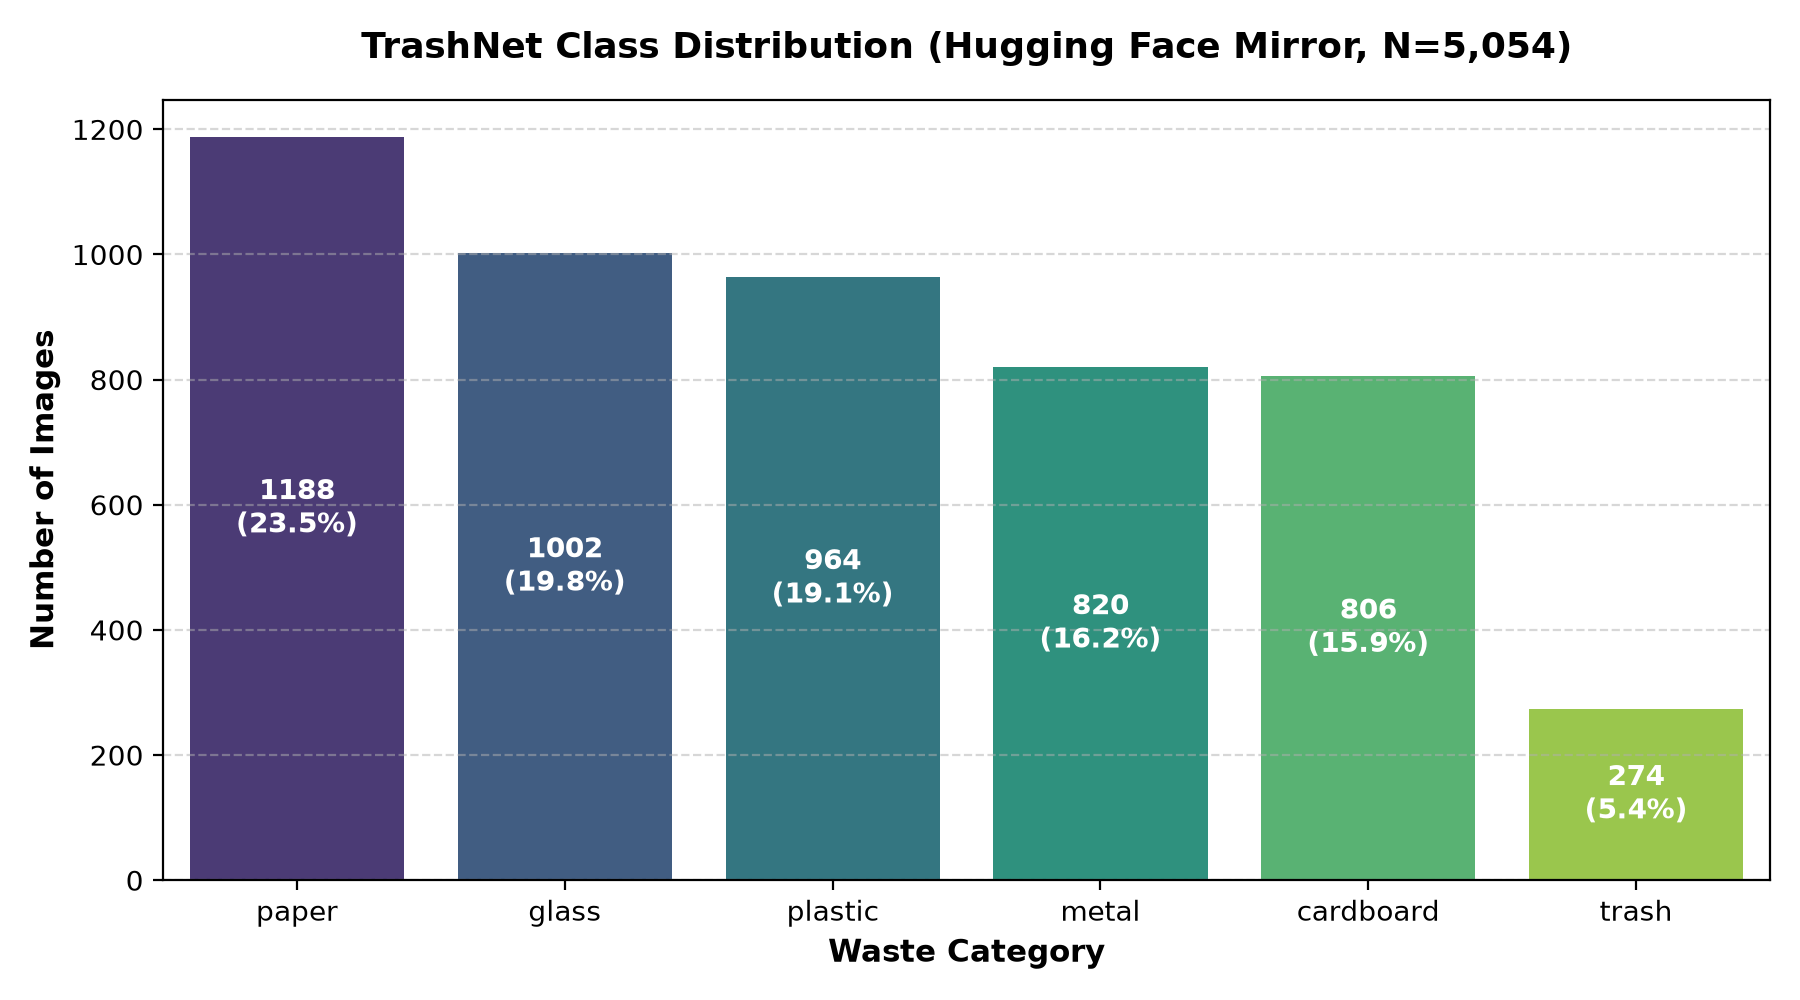
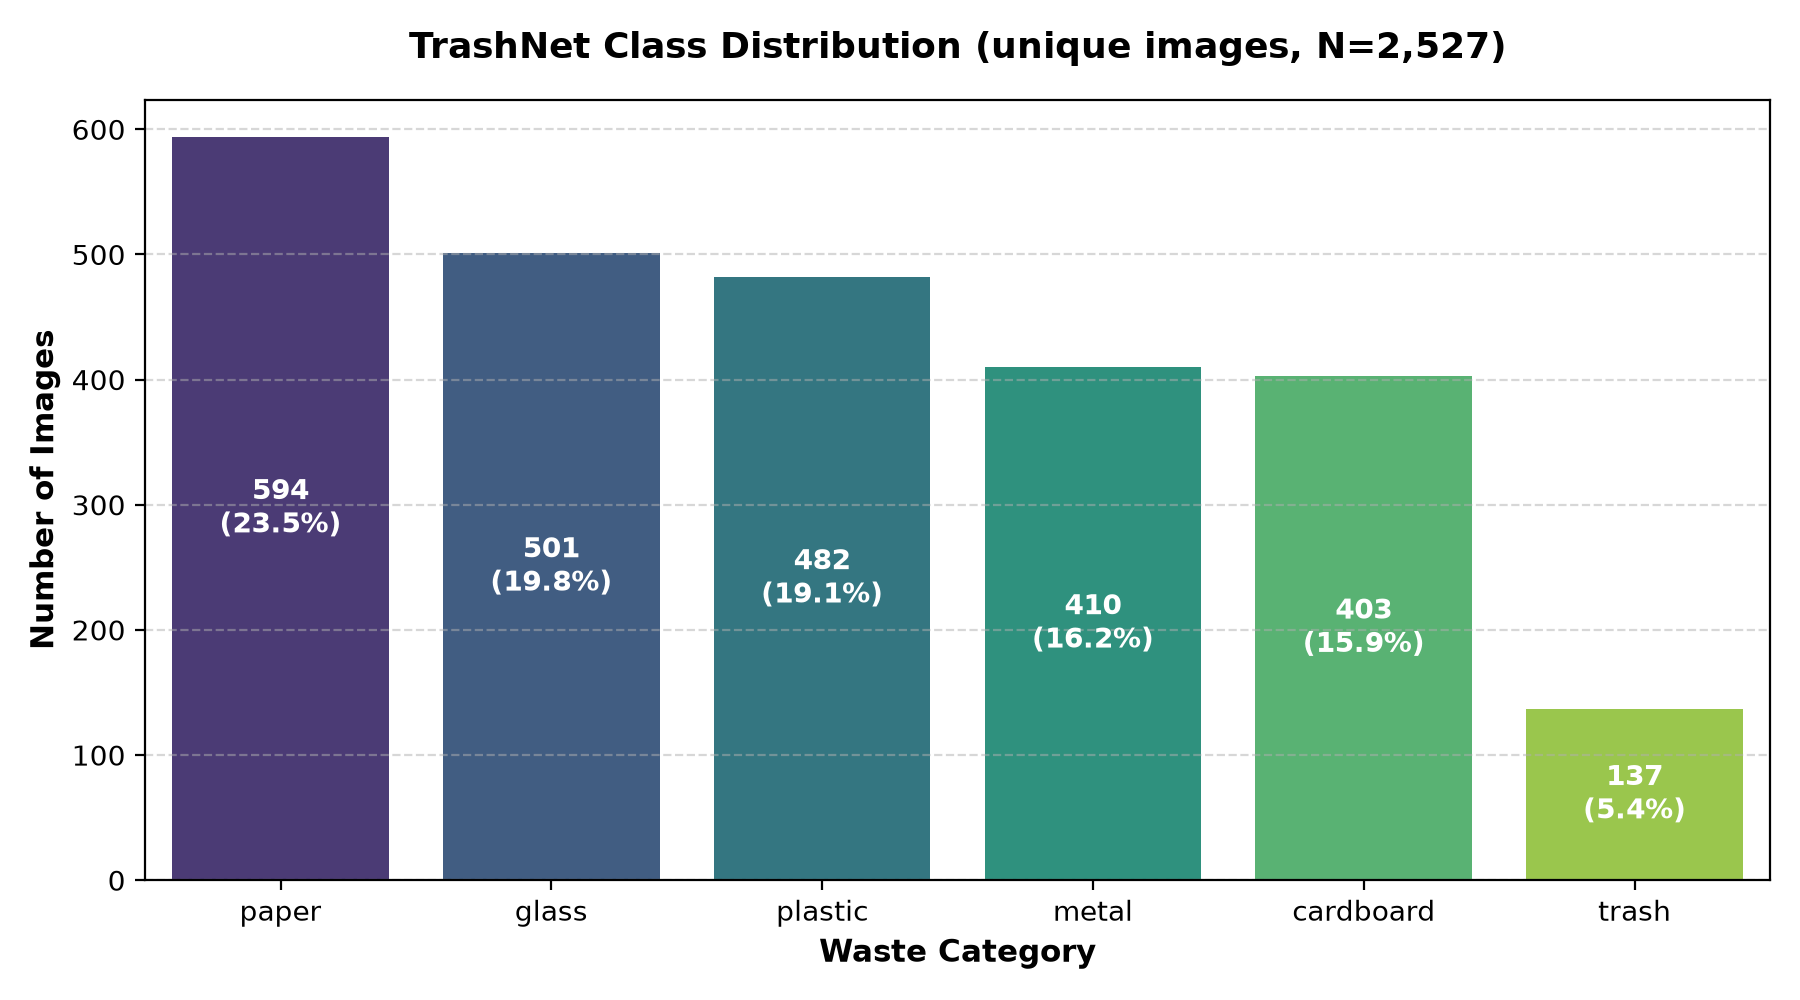
fix(phase-1): update imbalance chart for N=2527, relative image paths, 4.34:1 ratio, and removal policy in docs

diff --git a/docs/DATASET.md b/docs/DATASET.md
@@ -7,6 +7,7 @@ The dataset used in EcoVision is **TrashNet**, originally compiled by Gary Thung
 - **Primary Source (GitHub):** [garythung/trashnet](https://github.com/garythung/trashnet) at commit `6fa2b87`
 - **Hugging Face Mirror:** [garythung/trashnet](https://huggingface.co/datasets/garythung/trashnet)
 - **Problem Formulation:** Single-label multi-class image classification across 6 waste categories: `cardboard`, `glass`, `metal`, `paper`, `plastic`, and `trash`.
+- **Unique vs. Mirror Size:** The **true unique benchmark size is 2,527 images**. The **5,054 figure is the Hugging Face mirror's doubled count**, caused by automatic ingestion of both original and resized archives.
 
 ---
 
@@ -16,7 +17,7 @@ Official GitHub count states **2,527** unique images. The Hugging Face mirror re
 
 The table below presents the verified counts per class extracted directly by `src/data_audit.py` and saved to `reports/class_counts_comparison.csv`:
 
-| Class | GitHub Count (`6fa2b87`) | Hugging Face Mirror Rows | Ratio (HF / GitHub) | Share of Dataset (%) |
+| Class | GitHub Unique Count (`6fa2b87`) | Hugging Face Mirror Rows (Doubled) | Ratio (HF / GitHub) | Share of Dataset (%) |
 | :--- | :---: | :---: | :---: | :---: |
 | **paper** | 594 | 1,188 | 2.0000 | 23.51% |
 | **glass** | 501 | 1,002 | 2.0000 | 19.83% |
@@ -27,7 +28,7 @@ The table below presents the verified counts per class extracted directly by `sr
 | **TOTAL** | **2,527** | **5,054** | **2.0000** | **100.00%** |
 
 ### Severe Imbalance: The "Trash" Minority Class
-- The **`trash`** category is the extreme minority, comprising only **137 unique images (5.42%)**, whereas `paper` accounts for **594 images (23.51%)** — an imbalance ratio of **4.33 : 1**.
+- The **`trash`** category is the extreme minority, comprising only **137 unique images (5.42%)**, whereas `paper` accounts for **594 images (23.51%)** — an imbalance ratio of **4.34 : 1**.
 - **Implication for Modeling:** A naive classifier predicting solely the majority classes can achieve high overall accuracy while completely failing on actual miscellaneous waste. Therefore, training must incorporate **class-weighted cross-entropy loss** and model selection must prioritize **macro-averaged F1 score** over raw accuracy.
 
 ---
@@ -46,27 +47,30 @@ Rather than assuming duplicates, `src/data_audit.py` investigated the Hugging Fa
    - **Perceptual Hash Distance:** 2,242 pairs (88.7%) have a perceptual hash (pHash) Hamming distance of **0**, and 100% have a distance **≤ 4** (mean Hamming distance: 0.2287).
    - **Resolution Contrast:** Samples 0..2526 are high-resolution (3264×2448 to 4032×3024); samples 2527..5053 are downscaled (512×384).
 
-### Cross-Class Label Noise & Exact Duplicates
-Beyond the 2x resolution duplication, cryptographic MD5 hash analysis identified **3 pairs of exact duplicate images with conflicting labels** present in the original dataset:
+### Cross-Class Label Contamination & Removal Policy
+Beyond the 2x resolution duplication, cryptographic MD5 hash analysis identified **3 pairs of exact duplicate images with conflicting labels** present in the benchmark:
 1. `glass115.jpg` and `metal91.jpg` are byte-identical pixels (MD5: `319ffb5432...` at 4032×3024, `50035a9538...` at 512×384).
 2. `glass176.jpg` and `plastic152.jpg` are byte-identical pixels (MD5: `31b82dd56c...` at 4032×3024, `03b62f7033...` at 512×384).
 3. `glass389.jpg` and `plastic332.jpg` are byte-identical pixels (MD5: `92b8e0d530...` at 4032×3024, `814c3e8c70...` at 512×384).
 
-This proves that genuine label noise and duplicate contamination exist in the benchmark, which must be addressed in Phase 2 during deduplication and stratified group splitting.
+**Phase 2 Removal Policy:**
+Because the true ground-truth label for these images is ambiguous and unknowable without external verification, **BOTH images of each pair (6 images total)** are systematically removed from the modeling pipeline. They are logged in `reports/removed_images.csv` to ensure no contaminated labels corrupt training or artificially penalize validation/test evaluation.
 
 ---
 
 ## 4. Visualizations
 
-### Class Imbalance Distribution
-The bar chart below illustrates the sample counts and relative percentages for all 6 categories:
+### Class Imbalance Distribution (Unique Images, N=2,527)
+The bar chart below illustrates the sample counts and relative percentages for all 6 categories across the unique 2,527 images:
 
-![Class Imbalance Distribution](file:///c:/Users/mdkas/EcoVision/reports/class_imbalance.png)
+![Class Imbalance Distribution (Unique N=2,527)](../reports/class_imbalance.png)
+
+*(Note: The mirrored 5,054-row chart is archived at `../reports/class_imbalance_hf_mirror_doubled.png` for reference).*
 
 ### Representative Samples
-Below is a 2x6 sample grid showing representative waste objects from each of the 6 classes along with their original resolutions:
+Below is a 2x6 sample grid showing representative waste objects from each of the 6 classes along with their resolutions:
 
-![Representative Sample Grid](file:///c:/Users/mdkas/EcoVision/reports/sample_grid.png)
+![Representative Sample Grid](../reports/sample_grid.png)
 
 ---
 
@@ -76,5 +80,7 @@ All figures and findings are verifiable from the code-generated artifacts stored
 - `reports/dataset_metadata.csv`: Full metadata index (dimensions, aspect ratio, MD5, pHash, dHash, aHash, local paths) for all 5,054 rows.
 - `reports/class_counts_comparison.csv`: Exact GitHub vs. Hugging Face count and percentage breakdown.
 - `reports/discrepancy_summary.json`: Mathematical and empirical verification of the 2x archive duplication and resolution ranges.
-- `reports/class_imbalance.png`: High-resolution distribution chart.
+- `reports/class_imbalance.png`: High-resolution distribution chart of the unique 2,527 images.
+- `reports/class_imbalance_hf_mirror_doubled.png`: Doubled mirror distribution chart archive.
 - `reports/sample_grid.png`: High-resolution representative sample image grid.
+- `reports/removed_images.csv`: Log of removed cross-class duplicate images with conflicting labels.

diff --git a/docs/EXPLAINED.md b/docs/EXPLAINED.md
@@ -139,7 +139,7 @@ Provides the formal data specification for the EcoVision project, documenting th
 Fulfills Phase 1 documentation deliverables and equips recruitment reviewers with a complete, verifiable reference explaining why the dataset has 5,054 rows on Hugging Face versus 2,527 on GitHub, and how class imbalance and label noise will be handled in subsequent phases.
 
 ### Interview Questions & Answers
-1. **Q: Why is the 4.33:1 class imbalance between paper (23.51%) and trash (5.42%) problematic for evaluation?**
+1. **Q: Why is the 4.34:1 class imbalance between paper (23.51%) and trash (5.42%) problematic for evaluation?**
    - **A:** If evaluated using overall accuracy alone, an algorithm could predict the majority class and achieve ~75-80% accuracy while failing 100% of the time on miscellaneous trash. Macro-averaged metrics (macro-F1) weight all classes equally, exposing poor performance on minority classes.
 2. **Q: How does the discovery of cross-class duplicates (e.g. `glass115.jpg` and `metal91.jpg`) affect model training?**
    - **A:** Cross-class duplicates represent conflicting label noise. If identical images are assigned contradictory labels, the loss function penalizes correct predictions and confuses gradients. In addition, if duplicates land in different splits, test set leakage occurs.
